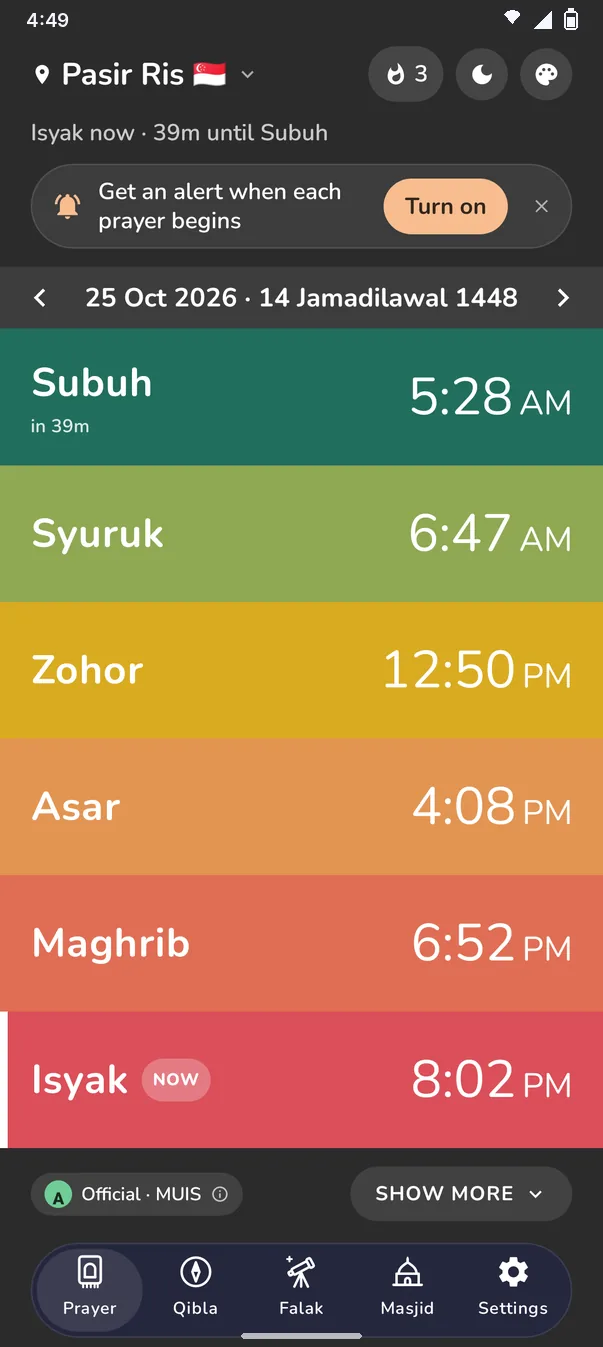
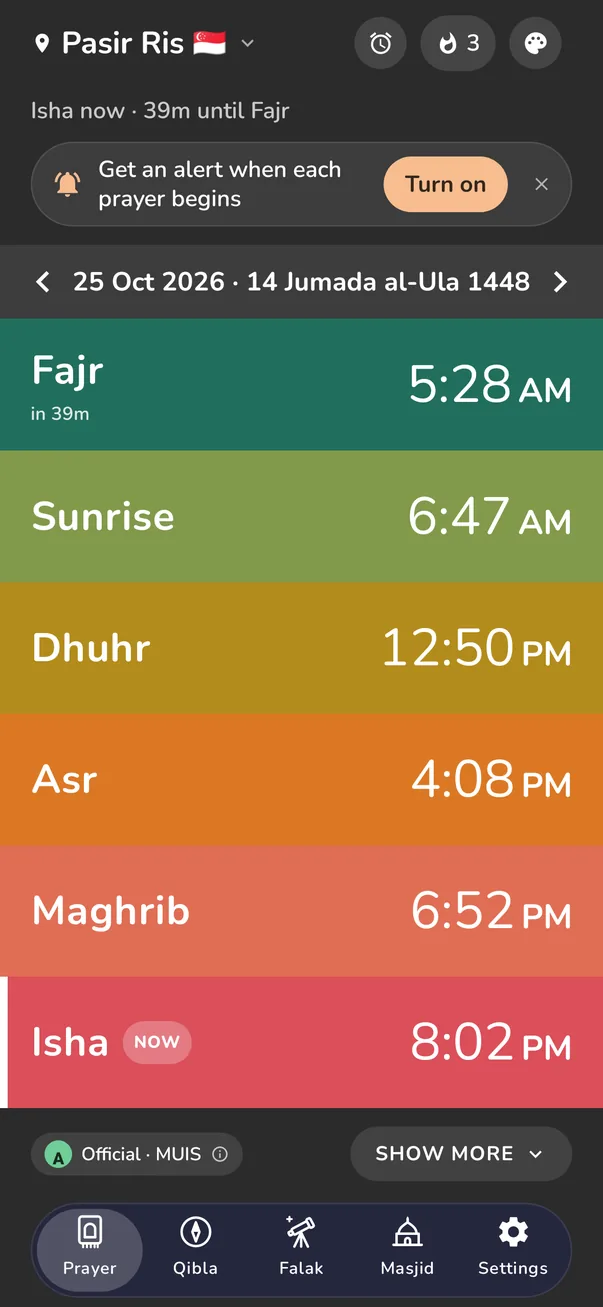
Website: trust line under the hero, fresh English app pictures, Malay and Indonesian pages show their own pictures
Pictures come from the latest iPhone and Android screenshot runs (English) and the
web app in Malay and Indonesian (site/img/ms, site/img/id). build_site_lang.py uses
site/img/<lang>/<name> when it exists, and now also translates text right after an icon.

Claude-Session: https://claude.ai/code/session_012paKCFCsac3HXVYau11HJz

diff --git a/site/index.html b/site/index.html
@@ -147,6 +147,8 @@
     .hero .wrap { display: grid; grid-template-columns: 1.1fr 0.9fr; gap: 40px; align-items: center; }
     .hero h1 span { background: linear-gradient(135deg, var(--gold), var(--ember) 60%, var(--rose)); -webkit-background-clip: text; background-clip: text; color: transparent; }
     .hero .btns { margin: 28px 0 18px; }
+    .hero .trust { display: flex; align-items: center; gap: 8px; margin: 0 0 10px; font-size: 0.95rem; color: var(--text); opacity: .9; }
+    .hero .trust svg { flex: none; color: var(--gold); }
     .hero .note { font-size: 0.9rem; color: var(--muted); }
     .hero-phones { position: relative; height: 600px; }
     .hero-phones .phone { position: absolute; width: 260px; }
@@ -166,7 +168,7 @@
     .phone img { display: block; border-radius: 31px; width: 100%; height: auto; aspect-ratio: 603 / 1311; }
     /* Android: squarer corners, thin even bezel and a punch hole camera. */
     .phone.android { border-radius: 28px; padding: 6px; background: #0a0b12; }
-    .phone.android img { border-radius: 22px; aspect-ratio: 603 / 1347; }
+    .phone.android img { border-radius: 22px; aspect-ratio: 603 / 1307; }
     .feature .shot .phone.android { position: relative; }
     .phone.android::before { content: ""; position: absolute; top: 13px; left: 50%; width: 11px; height: 11px; margin-left: -5.5px; border-radius: 50%; background: #000; box-shadow: 0 0 0 1.5px #1c1f2e; }
 
@@ -519,10 +521,11 @@
             <span class="two">iPhone and Android<small>Join the test</small></span>
           </a>
         </div>
+        <p class="trust"><svg viewBox="0 0 24 24" width="18" height="18" fill="none" stroke="currentColor" stroke-width="2.2" stroke-linecap="round" stroke-linejoin="round" aria-hidden="true"><path d="M12 3l7 3v5c0 4.5-3 8.3-7 10-4-1.7-7-5.5-7-10V6z"/><path d="M8.5 12l2.5 2.5 4.5-5"/></svg>Times from your local religious authority, in 143 countries.</p>
         <p class="note"><a href="#story">Read the story</a> · With <a href="https://nasardigital.com/" target="_blank" rel="noopener">Nasar Digital</a> (Nasar Pte Ltd)</p>
       </div>
       <div class="hero-phones" aria-hidden="true">
-        <div class="phone android back"><img src="img/android-dial.webp" srcset="img/android-dial-400.webp 400w, img/android-dial.webp 603w" sizes="(max-width: 900px) 205px, 260px" alt="" width="603" height="1347" fetchpriority="high" /></div>
+        <div class="phone android back"><img src="img/android-dial.webp" srcset="img/android-dial-400.webp 400w, img/android-dial.webp 603w" sizes="(max-width: 900px) 205px, 260px" alt="" width="603" height="1307" fetchpriority="high" /></div>
         <div class="phone front"><img src="img/today.webp" srcset="img/today-400.webp 400w, img/today.webp 603w" sizes="(max-width: 900px) 205px, 260px" alt="" width="603" height="1311" fetchpriority="high" /></div>
       </div>
     </div>
@@ -686,8 +689,8 @@
           <p class="tribute">The Colour Bands look is our tribute to prayertime.sg &amp; my, the Singapore app many of us grew up with.</p>
         </div>
         <div class="shot">
-          <div class="phone"><img src="img/today.webp" alt="The Prayer screen, a dial counting down to Isha, and today's times in Pasir Ris, Singapore" loading="lazy" width="603" height="1311" /></div>
-          <div class="phone android"><img src="img/android-bands.webp" alt="The Colour Bands style, each prayer time on its own bright band" loading="lazy" width="603" height="1347" /></div>
+          <div class="phone"><img src="img/today.webp" alt="The Prayer screen, with how long is left to pray and today's times in Pasir Ris, Singapore" loading="lazy" width="603" height="1311" /></div>
+          <div class="phone android"><img src="img/android-bands.webp" alt="The Colour Bands style, each prayer time on its own bright band" loading="lazy" width="603" height="1307" /></div>
         </div>
       </div>
 
@@ -705,7 +708,7 @@
         </div>
         <div class="shot">
           <div class="phone"><img src="img/travel.webp" alt="Arriving in Hanoi, a welcome card explains the app switched to the Southeast Asia method" loading="lazy" width="603" height="1311" /></div>
-          <div class="phone android"><img src="img/android-journey.webp" alt="Journey, 2,195 km from home, you may shorten and combine prayers" loading="lazy" width="603" height="1347" /></div>
+          <div class="phone android"><img src="img/android-journey.webp" alt="Journey, 2,195 km from home, you may shorten and combine prayers" loading="lazy" width="603" height="1307" /></div>
         </div>
       </div>
 
@@ -722,7 +725,7 @@
         </div>
         <div class="shot">
           <div class="phone"><img src="img/qibla.webp" alt="The qibla compass showing Aligned, facing 293 degrees" loading="lazy" width="603" height="1311" /></div>
-          <div class="phone android"><img src="img/android-falak.webp" alt="Falak, the shadow right now and the days to the next Qibla Day" loading="lazy" width="603" height="1347" /></div>
+          <div class="phone android"><img src="img/android-falak.webp" alt="Falak, the shadow right now and the days to the next Qibla Day" loading="lazy" width="603" height="1307" /></div>
         </div>
       </div>
 
@@ -733,8 +736,8 @@
           <p class="muted">See the nearest masjids, prayer rooms on a map, with how far each one is and how long it takes to walk or drive. Handy in a new city, or in a mall at Asr.</p>
         </div>
         <div class="shot">
-          <div class="phone android"><img src="img/android-masjid.webp" alt="A map and list of masjids and prayer rooms near Pasir Ris" loading="lazy" width="603" height="1347" /></div>
-          <div class="phone"><img src="img/widget.webp" alt="The big Home Screen widget with today's prayer times" loading="lazy" width="603" height="1311" /></div>
+          <div class="phone android"><img src="img/android-masjid.webp" alt="A map and list of masjids and prayer rooms near Pasir Ris" loading="lazy" width="603" height="1307" /></div>
+          <div class="phone"><img src="img/your-masjid.webp" alt="Your own masjid's jamaah times, shown under each prayer" loading="lazy" width="603" height="1311" /></div>
         </div>
       </div>
 
@@ -754,7 +757,7 @@
         </div>
         <div class="shot">
           <div class="phone"><img src="img/ramadan-berbuka.webp" alt="The Prayer screen in Ramadan, counting down to iftar" loading="lazy" width="603" height="1311" /></div>
-          <div class="phone android"><img src="img/android-ramadan.webp" alt="The Ramadan page with today's Imsak, Fajr and iftar times" loading="lazy" width="603" height="1347" /></div>
+          <div class="phone android"><img src="img/android-ramadan.webp" alt="The Ramadan page with today's Imsak, Fajr and iftar times" loading="lazy" width="603" height="1307" /></div>
         </div>
       </div>
     </div>
@@ -1091,7 +1094,7 @@
     document.querySelectorAll('.lang .menu a').forEach(function (a) {
       a.addEventListener('click', function () { try { localStorage.setItem('pta-lang', a.getAttribute('hreflang')); } catch (e) {} });
     });
-    var intro = document.querySelectorAll('.hero .eyebrow, .hero h1, .hero .lead, .hero .btns, .hero .note');
+    var intro = document.querySelectorAll('.hero .eyebrow, .hero h1, .hero .lead, .hero .btns, .hero .trust, .hero .note');
     intro.forEach(function (el, n) { el.classList.add('intro'); el.style.setProperty('--i', n); });
 
     // The trust strip loops: repeat its items once so the scroll is seamless.

diff --git a/web/src/ui/App.tsx b/web/src/ui/App.tsx
@@ -107,12 +107,14 @@ export function App() {
   useEffect(() => {
     const moved = takeMoveFromLink()
     if (moved) openSheet({ kind: 'move-in', code: moved })
-    // The website's phone frame opens a screen straight away: ?demo&open=alarms (or calendar, tracker).
+    // The website's phone frame opens a screen straight away: ?demo&open=alarms (or calendar, tracker, journey, ramadan).
     if (s.demo) {
       const open = new URLSearchParams(location.search).get('open')
       if (open === 'alarms') openSheet({ kind: 'wakeup' })
       else if (open === 'calendar') openSheet({ kind: 'calendar' })
       else if (open === 'tracker') openSheet({ kind: 'tracker' })
+      else if (open === 'journey') openSheet({ kind: 'journey' })
+      else if (open === 'ramadan') openSheet({ kind: 'ramadan' })
     }
     if (s.prefs.hasOnboarded && s.prefs.useGPS) s.locate()
     s.refreshOfficial()

diff --git a/tools/build_site_lang.py b/tools/build_site_lang.py
@@ -11,6 +11,7 @@ language file doesn't have yet, so they never drift apart silently. Keys that
 start with "_" are settings, not page text ("_share" is the WhatsApp link,
 "_label" the short name on the language button, "_appnote" a line saying the app
 itself is still in English, "_head" extra tags for the <head>, such as a font).
+Pictures of the app in site/img/<lang>/ (same file name) replace the English ones.
 Arabic and Urdu pages are built right to left. Anything between <!--notr--> and
 <!--/notr--> is left as it is (the language menu, where each name is in its own
 language).
@@ -58,7 +59,8 @@ work = re.sub(r'<!--notr-->[\s\S]*?<!--/notr-->|<(script|style|svg)\b[\s\S]*?</\
 title_re = re.compile(r'(<title>)([^<]*)(</title>)')
 work = title_re.sub(lambda m: m.group(1) + tr(m.group(2)) + m.group(3), work)
 body_at = work.index('<body')
-body = re.sub(r'>([^<\x00]+)<', lambda m: '>' + tr(m.group(1)) + '<', work[body_at:])
+# Also text right after a kept drawing, such as an icon at the start of a line.
+body = re.sub(r'(>|\x00\d+\x00)([^<\x00]+)<', lambda m: m.group(1) + tr(m.group(2)) + '<', work[body_at:])
 work = work[:body_at] + body
 
 
@@ -76,6 +78,19 @@ if missing:
     sys.exit(1)
 
 work = re.sub(r'\x00(\d+)\x00', lambda m: kept[int(m.group(1))], work)
+
+# Pictures of the app in this language: site/img/<lang>/<name> replaces img/<name> when it exists.
+import os
+img_dir = os.path.join(os.path.dirname(os.path.abspath(src)), 'img', lang)
+def own_picture(path):
+    name = path[len('img/'):] if path.startswith('img/') else None
+    if name and '/' not in name and os.path.isfile(os.path.join(img_dir, name)):
+        return f'img/{lang}/{name}'
+    return path
+work = re.sub(r'\bsrc="(img/[^"]+)"', lambda m: f'src="{own_picture(m.group(1))}"', work)
+work = re.sub(r'\bsrcset="([^"]*)"', lambda m: 'srcset="' + ', '.join(
+    ' '.join([own_picture(c.split(' ')[0])] + c.split(' ')[1:])
+    for c in (part.strip() for part in m.group(1).split(','))) + '"', work)
 
 # The page lives one folder down: fix relative links (not #anchors, mailto or full URLs).
 work = re.sub(r'\b(href|src)="(?!https?:|mailto:|#|/|data:)([^"]*)"',
